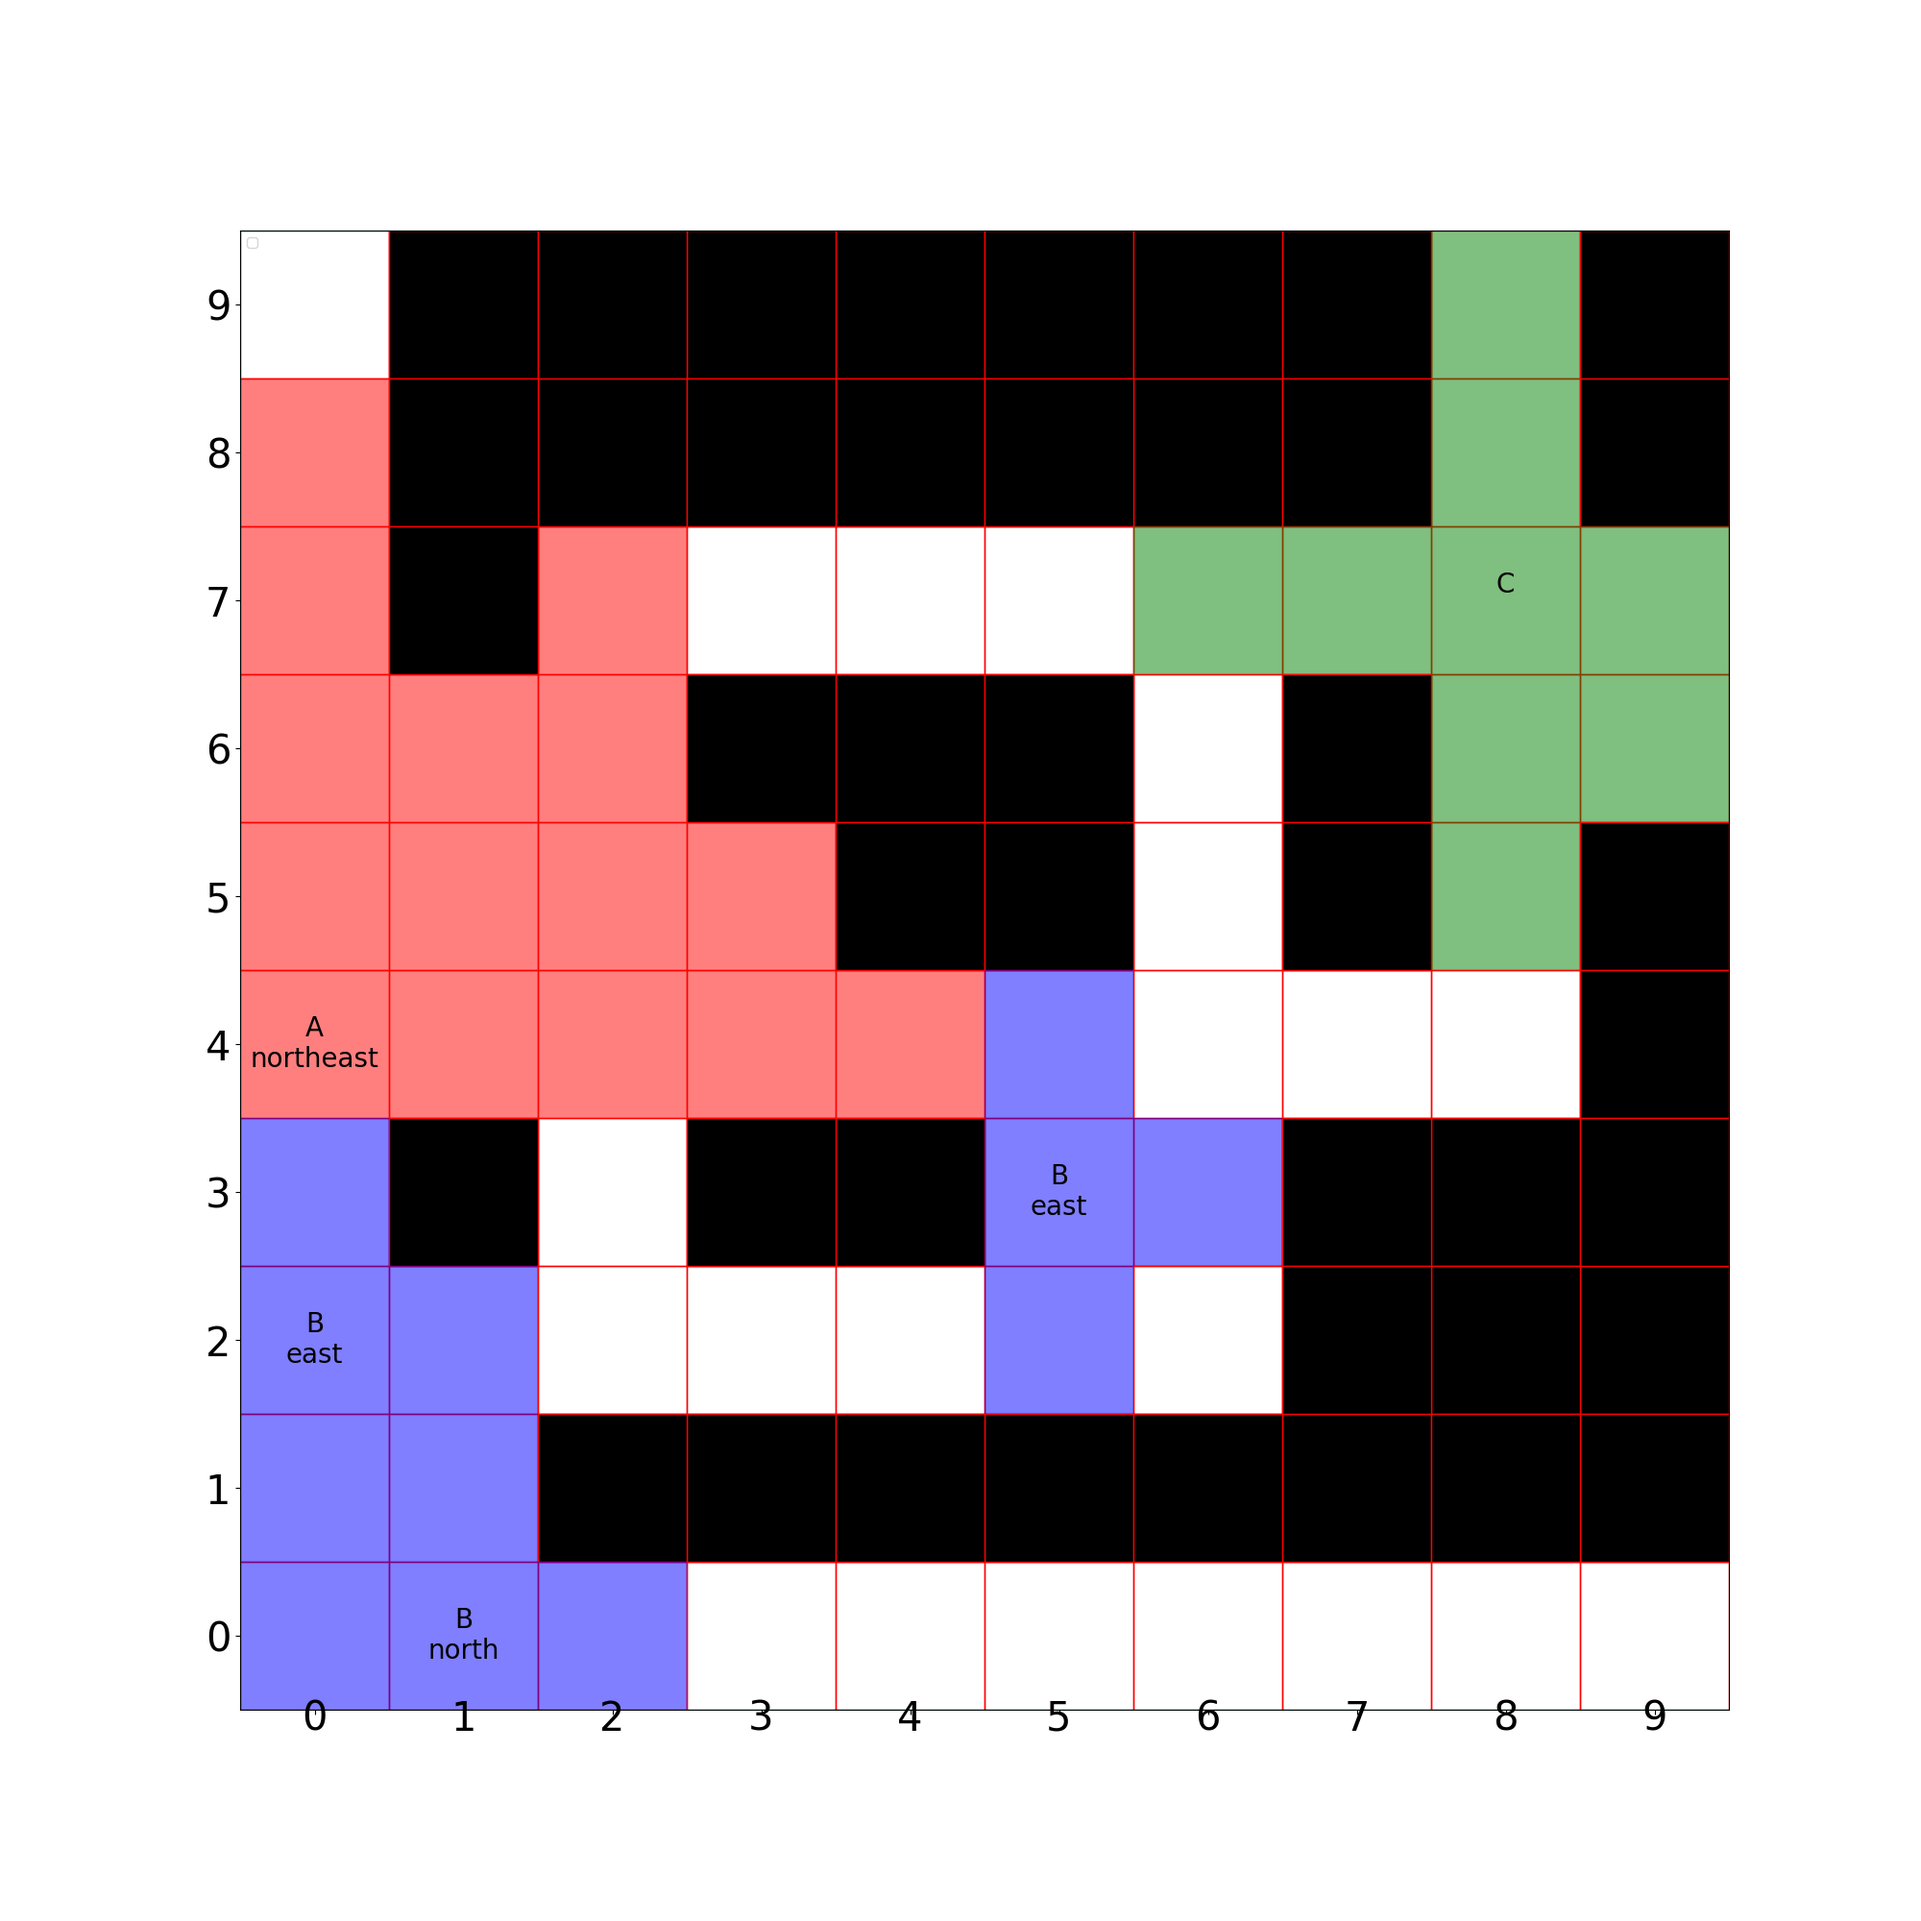
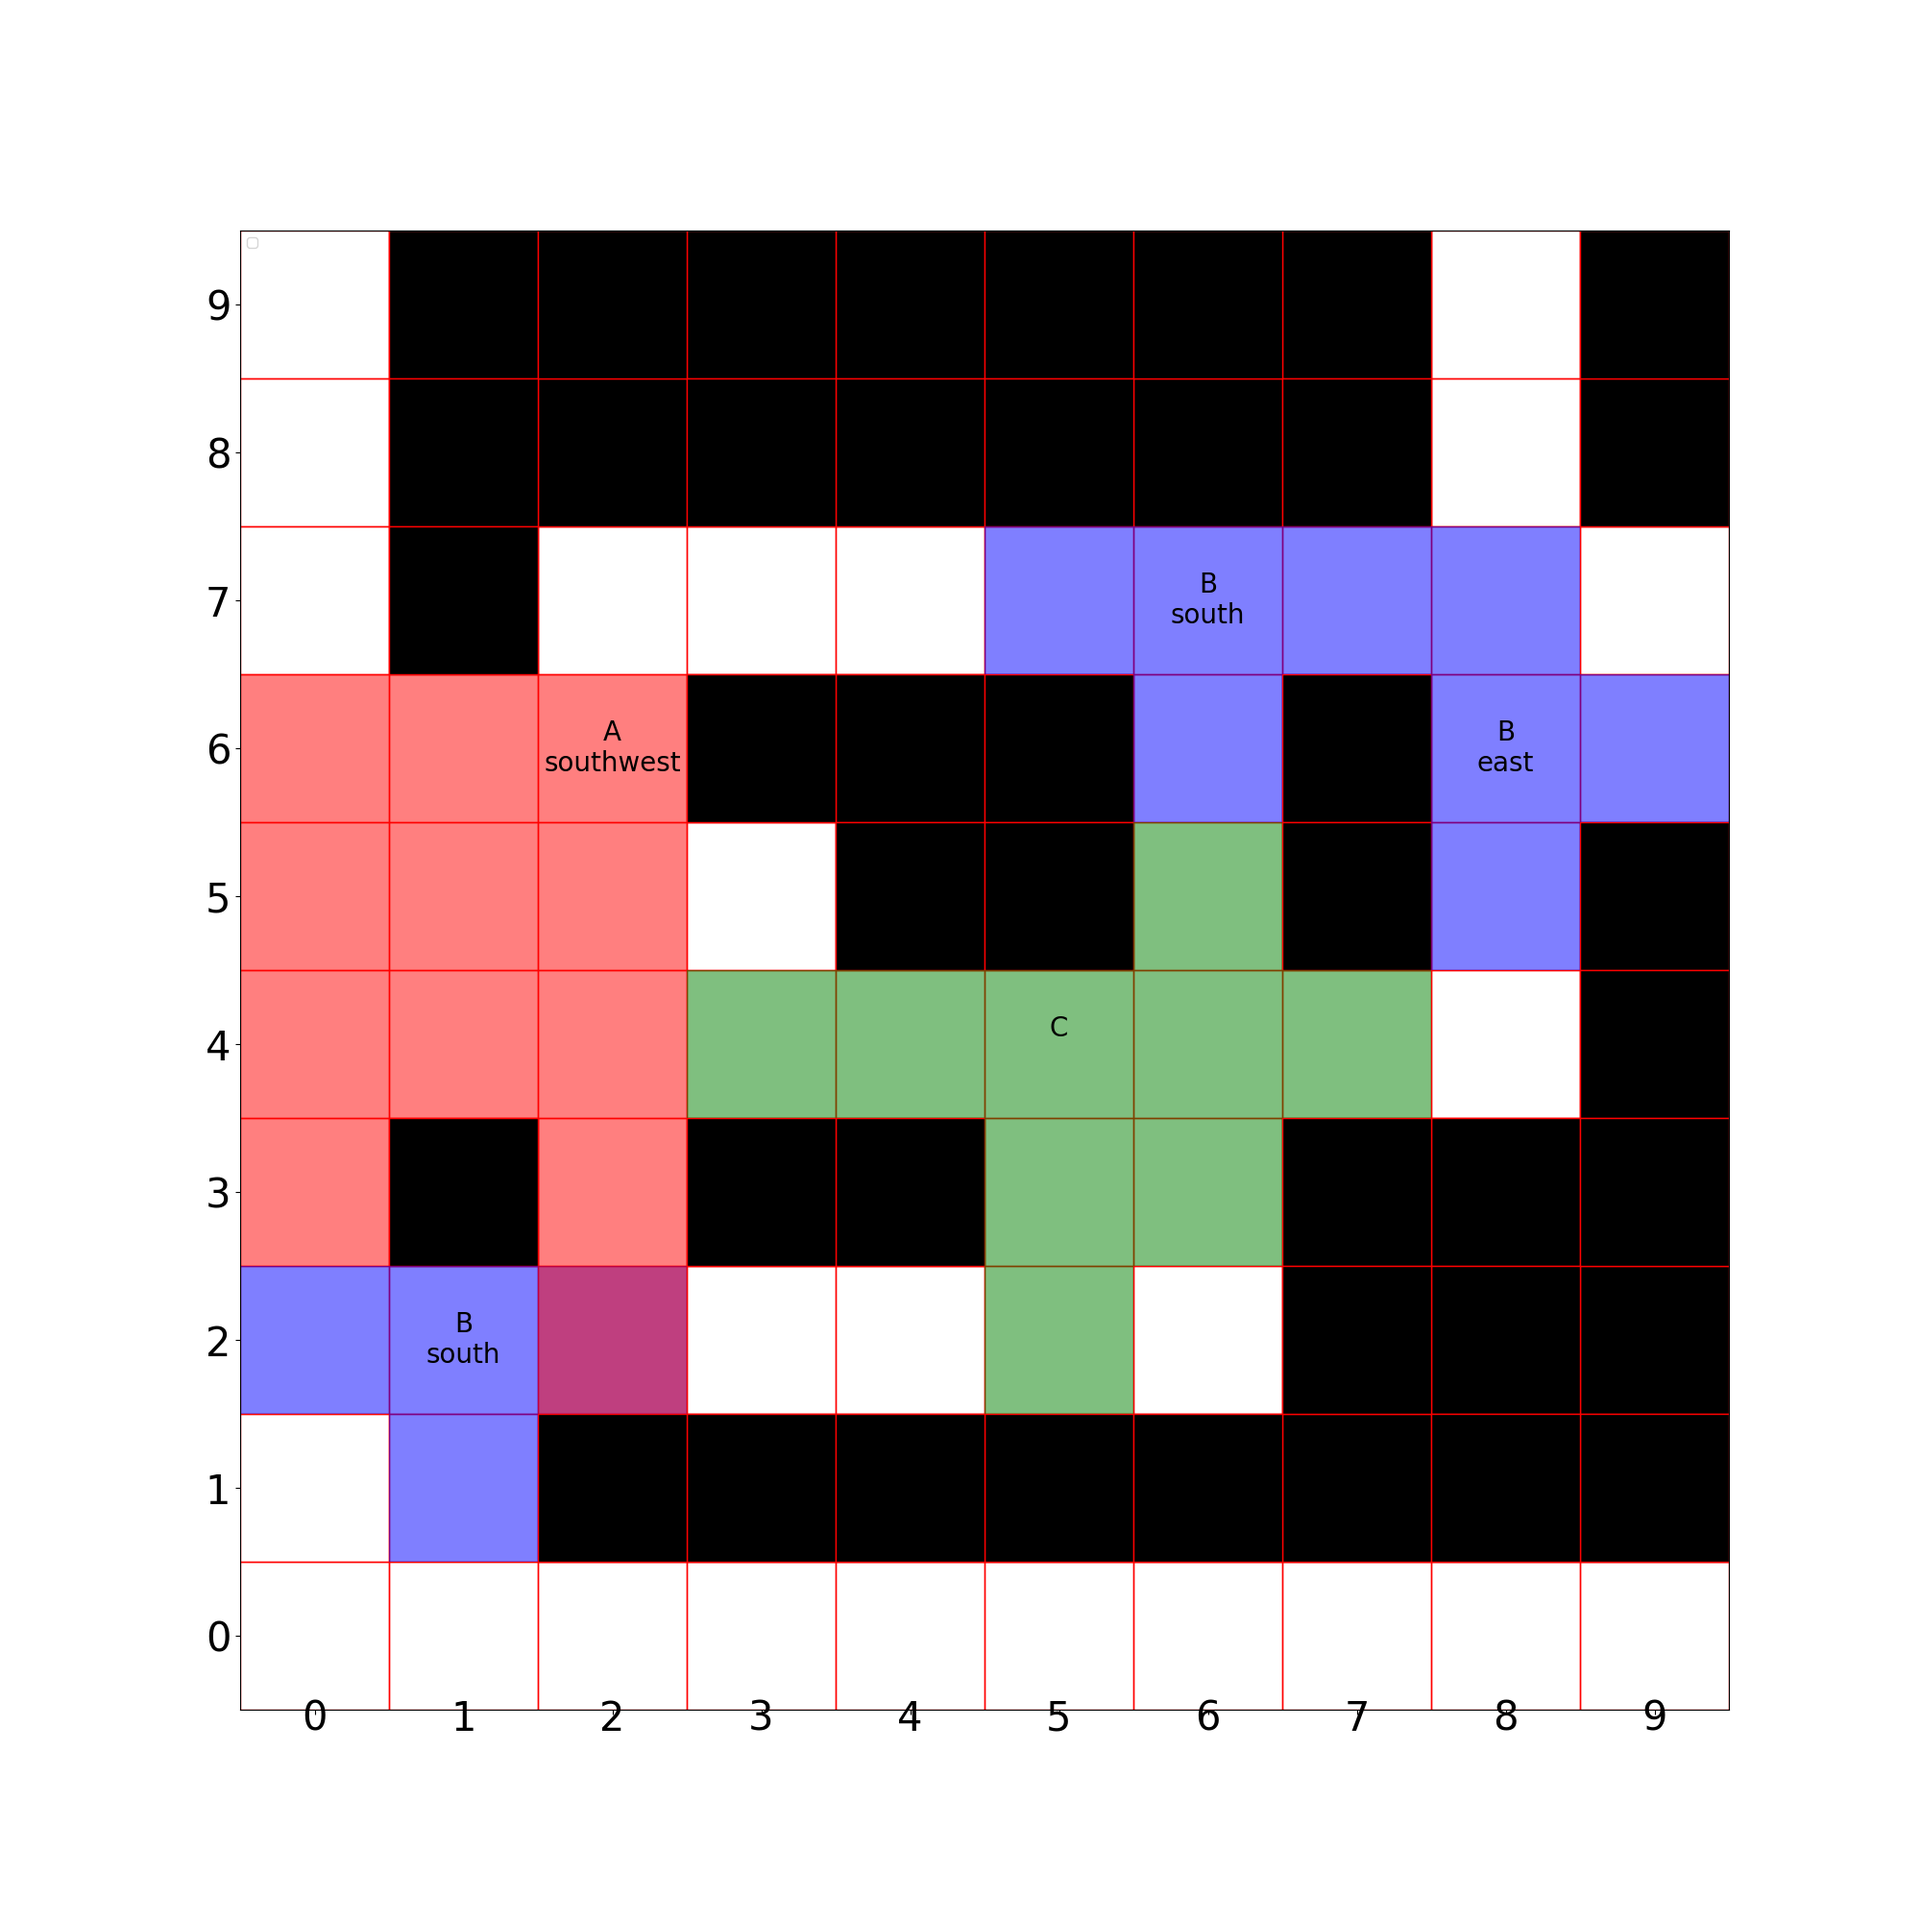
fix

diff --git a/main.py b/main.py
@@ -56,10 +56,6 @@ def is_within_degrees(direction, dx, dy, angle):
 
 
 def is_within_90_degrees(direction, dx, dy):
-    if dx == 0 and dy == 0:
-        return False
-
-    # 角度を計算
     angle = math.degrees(math.atan2(dx, dy))
     angle = (angle + 360) % 360  # 角度を正の範囲で正規化
 
@@ -82,9 +78,6 @@ def is_within_90_degrees(direction, dx, dy):
 
 
 def is_within_180_degrees(direction, dx, dy):
-    if dx == 0 and dy == 0:
-        return False
-
     # 角度を計算
     angle = math.degrees(math.atan2(dx, dy))
     if angle < 0:
@@ -110,9 +103,6 @@ def is_within_180_degrees(direction, dx, dy):
 
 
 def is_within_360_degrees(direction, dx, dy):
-    if dx == 0 and dy == 0:
-        return False
-
     # 角度を計算
     angle = math.degrees(math.atan2(dx, dy))
     if angle < 0:
@@ -306,12 +296,22 @@ def calculate(
     )
     z = pulp.LpVariable.dicts(
         "z",
-        ((i, j) for i in range(grid_size[0]) for j in range(grid_size[1])),
+        (
+            (i, j)
+            for i in range(grid_size[0])
+            for j in range(grid_size[1])
+            if (i, j) not in obstacles
+        ),
         cat="Binary",
     )
     # 目的関数
     prob += pulp.lpSum(
-        [z[(i, j)] for i in range(grid_size[0]) for j in range(grid_size[1])]
+        [
+            z[(i, j)]
+            for i in range(grid_size[0])
+            for j in range(grid_size[1])
+            if (i, j) not in obstacles
+        ]
     )
     # 予算制約
     prob += (
@@ -336,27 +336,17 @@ def calculate(
             <= 1
         )
     # カバレッジ制約
-    for i in range(grid_size[0]):
-        for j in range(grid_size[1]):
-            # 各グリッドセル (i, j) がカバーされていることを確認
-            prob += z[(i, j)] <= pulp.lpSum(
-                x[pos, cam_type, dir]
-                for pos in positions
-                for cam_type in camera_costs
-                for dir in directions
-                if (i, j) in coverage[pos][cam_type][dir]
-            )
-    for pos in necessary_area:
-        prob += (
-            pulp.lpSum(
-                [
-                    z[(i, j)]
-                    for i in range(pos[0], pos[0] + 1)
-                    for j in range(pos[1], pos[1] + 1)
-                ]
-            )
-            == 1
+    for i, j in z.keys():
+        # 各グリッドセル (i, j) がカバーされていることを確認
+        prob += z[(i, j)] <= pulp.lpSum(
+            x[pos, cam_type, dir]
+            for pos in positions
+            for cam_type in camera_costs
+            for dir in directions
+            if (i, j) in coverage[pos][cam_type][dir]
         )
+    for area in necessary_area:
+        prob += z[area] == 1
     # 問題を解く
     prob.solve()
 
@@ -453,12 +443,12 @@ def cam_possible(pos, obstacles):
         (0, 0),  # 現在の位置
         (1, 0),  # 右
         (0, 1),  # 下
-        (1, 1),  # 右下
+        # (1, 1),  # 右下
         (-1, 0),  # 左
         (0, -1),  # 上
-        (-1, -1),  # 左上
-        (1, -1),  # 右上
-        (-1, 1),  # 左下
+        # (-1, -1),  # 左上
+        # (1, -1),  # 右上
+        # (-1, 1),  # 左下
     ]
 
     # どの隣接位置も障害物を含まないかチェック
